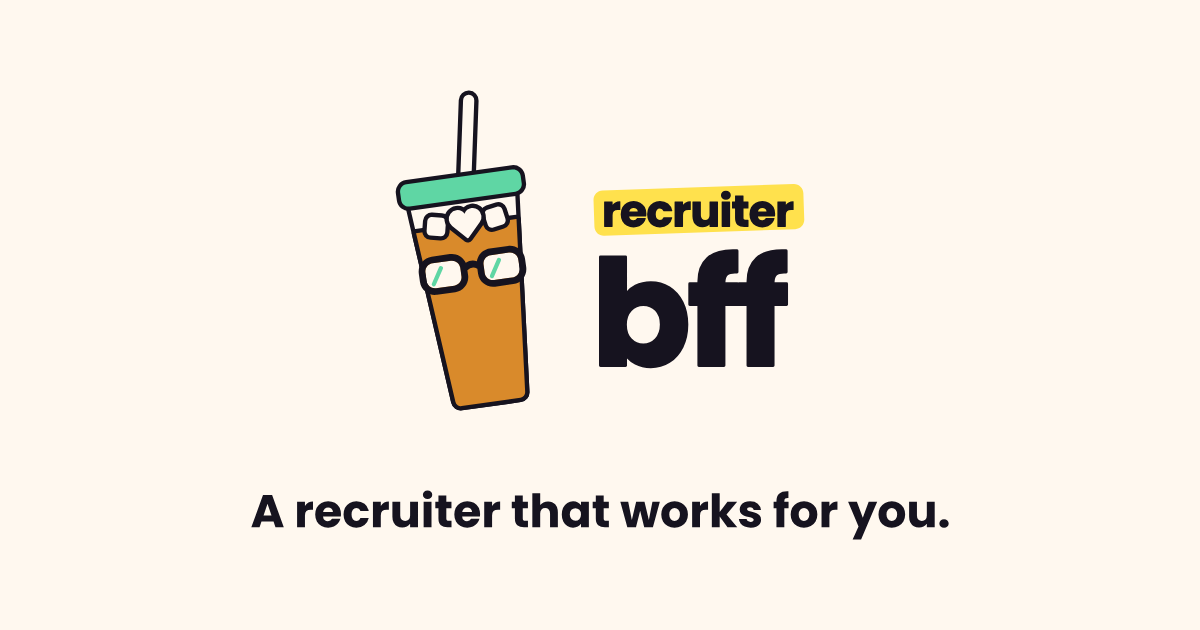
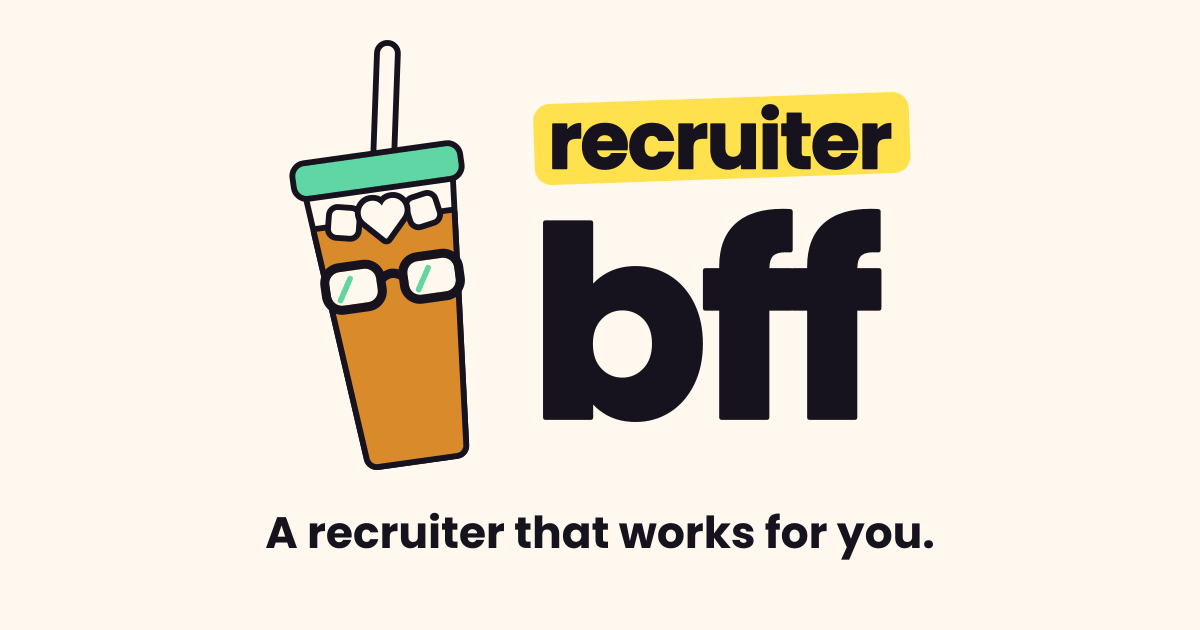
Recruiter BFF page: bigger share image in Unpaid Intern's layout (cup left, wordmark right)

Changed region(s): [[0.2158, 0.0603, 0.7708, 0.754], [0.185, 0.7841, 0.8017, 0.9048]]

diff --git a/recruiter-bff/index.html b/recruiter-bff/index.html
@@ -20,14 +20,14 @@
 <meta property="og:title" content="Recruiter BFF: find out if you're a match before you apply">
 <meta property="og:description" content="Find out if you're a match before you apply, then walk in prepared. A free plugin, in plain files you own.">
 <meta property="og:url" content="https://middleton.io/recruiter-bff/">
-<meta property="og:image" content="https://middleton.io/recruiter-bff/images/og.png">
+<meta property="og:image" content="https://middleton.io/recruiter-bff/images/og.png?v=2">
 <meta property="og:image:width" content="1200">
 <meta property="og:image:height" content="630">
 <meta property="og:image:alt" content="The Recruiter BFF logo: a giant iced tea in chunky glasses next to the words recruiter bff, above the line A recruiter that works for you.">
 <meta name="twitter:card" content="summary_large_image">
 <meta name="twitter:title" content="Recruiter BFF: find out if you're a match before you apply">
 <meta name="twitter:description" content="Find out if you're a match before you apply, then walk in prepared. A free plugin, in plain files you own.">
-<meta name="twitter:image" content="https://middleton.io/recruiter-bff/images/og.png">
+<meta name="twitter:image" content="https://middleton.io/recruiter-bff/images/og.png?v=2">
 <meta name="theme-color" content="#FFF8EF" media="(prefers-color-scheme: light)">
 <meta name="theme-color" content="#16131F" media="(prefers-color-scheme: dark)">
 <meta name="color-scheme" content="light dark">
@@ -39,7 +39,7 @@
   plausible.init()
 </script>
 <script type="application/ld+json">
-{"@context":"https://schema.org","@type":"SoftwareApplication","name":"Recruiter BFF","alternateName":"Job Search Agent","url":"https://middleton.io/recruiter-bff/","applicationCategory":"BusinessApplication","operatingSystem":"macOS, Windows","softwareRequirements":"Claude desktop app with Cowork, on a paid Claude plan (Pro, Max, Team, or Enterprise)","description":"A recruiter that works for you: a free Claude plugin that writes interview guides from your background, scores any job posting against it, finds fresh roles, and tracks your applications, in plain files you own.","offers":{"@type":"Offer","price":"0","priceCurrency":"USD"},"license":"https://opensource.org/license/mit","downloadUrl":"https://github.com/kevinmmiddleton/recruiter-bff/releases/latest/download/recruiter-bff.plugin","sameAs":"https://github.com/kevinmmiddleton/recruiter-bff","isAccessibleForFree":true,"image":"https://middleton.io/recruiter-bff/images/og.png","author":{"@id":"https://middleton.io/#kevin"}}
+{"@context":"https://schema.org","@type":"SoftwareApplication","name":"Recruiter BFF","alternateName":"Job Search Agent","url":"https://middleton.io/recruiter-bff/","applicationCategory":"BusinessApplication","operatingSystem":"macOS, Windows","softwareRequirements":"Claude desktop app with Cowork, on a paid Claude plan (Pro, Max, Team, or Enterprise)","description":"A recruiter that works for you: a free Claude plugin that writes interview guides from your background, scores any job posting against it, finds fresh roles, and tracks your applications, in plain files you own.","offers":{"@type":"Offer","price":"0","priceCurrency":"USD"},"license":"https://opensource.org/license/mit","downloadUrl":"https://github.com/kevinmmiddleton/recruiter-bff/releases/latest/download/recruiter-bff.plugin","sameAs":"https://github.com/kevinmmiddleton/recruiter-bff","isAccessibleForFree":true,"image":"https://middleton.io/recruiter-bff/images/og.png?v=2","author":{"@id":"https://middleton.io/#kevin"}}
 </script>
 </head>
 <body class="p-bff">
